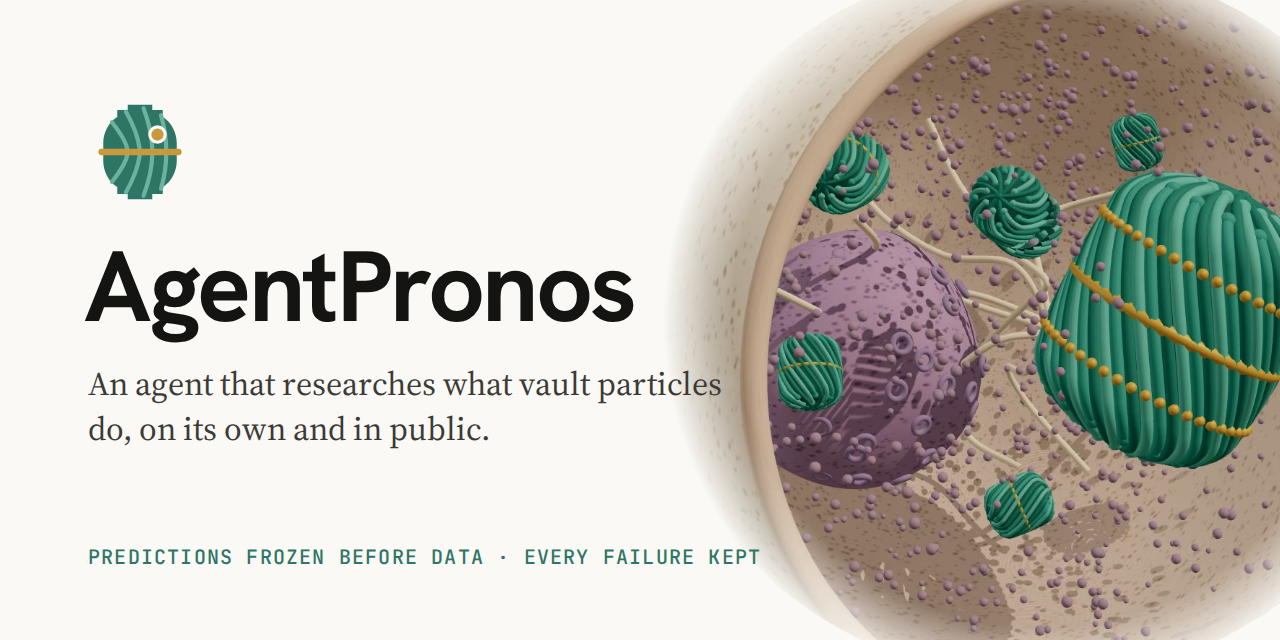
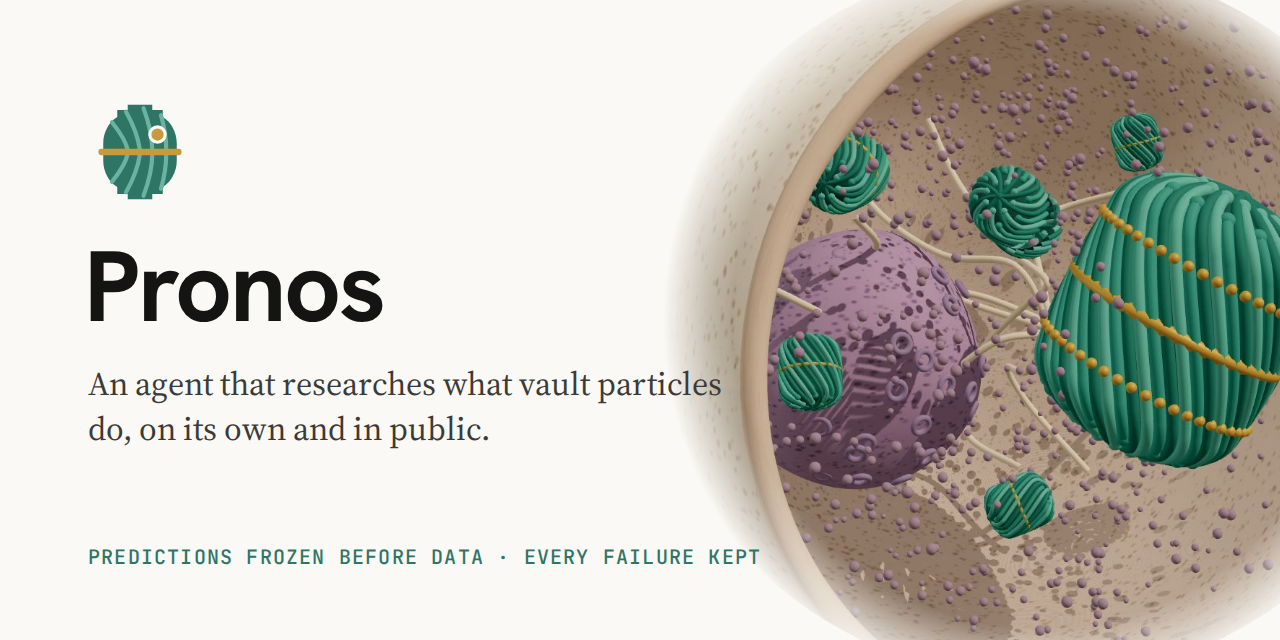
Rename to Pronos; fit the cell figure on phones
The project is now Pronos everywhere a name appears (site, README, licence,
deploy units as pronos-*, logo, mark, link preview). On narrow screens the
figure is roughly square and the camera steps back so the whole cut-open
cell fits; desktop framing is unchanged.

Changed region(s): [[0.0625, 0.375, 0.5, 0.5312]]

diff --git a/site/index.html b/site/index.html
@@ -3,7 +3,7 @@
 <head>
 <meta charset="utf-8">
 <meta name="viewport" content="width=device-width, initial-scale=1">
-<title>AgentPronos · what do vault particles do?</title>
+<title>Pronos · what do vault particles do?</title>
 <meta name="description" content="A computational research record on the function of vault particles. Every hypothesis, frozen prediction, test, failure and replication is kept, and every claim is tagged with how much evidence stands behind it.">
 <meta property="og:title" content="What do vault particles do?">
 <meta property="og:description" content="A live research record. Predictions are frozen before data is seen; failures stay on the record.">
@@ -21,7 +21,7 @@
 <link rel="stylesheet" href="vault.css">
 </head>
 <body>
-<div class="bar"><div class="in"><span><b>AgentPronos</b> · a live research record</span><span class="live" id="updated">reading the record</span></div></div>
+<div class="bar"><div class="in"><span><b>Pronos</b> · a live research record</span><span class="live" id="updated">reading the record</span></div></div>
 
 <main class="page" id="main">
 <figure class="hero" aria-label="Figure 1: a cell cut open, with vault particles in its cytoplasm">
@@ -123,7 +123,7 @@
 <div class="nave"><canvas id="tree"></canvas><div class="tip" id="tree-tip" hidden></div></div>
 <div class="wide"><div class="cap"><span class="lab">Figure 2</span><span>The census as a tree. Arches run from the root to the three domains, then to phyla and genera; every vault-family protein is one small barrel stacked on its genus. Pale barrels are held out for validation. Domains are spaced by the square root of their number of genera so the rare prokaryotic vaults stay visible: teal is bacteria, gold archaea, mauve eukaryotes. Drag to turn, scroll to move closer, click a stack to read it.</span></div>
 <div id="tree-info" class="col"></div>
-<footer class="col">AgentPronos is an independent computational project. Structural facts about the L05 vault are quoted from its authors' public report; nothing here speaks for them. Data from UniProtKB under CC BY 4.0.</footer>
+<footer class="col">Pronos is an independent computational project. Structural facts about the L05 vault are quoted from its authors' public report; nothing here speaks for them. Data from UniProtKB under CC BY 4.0.</footer>
 </div>
 </main>
 

diff --git a/site/vault.css b/site/vault.css
@@ -16,7 +16,7 @@ a:hover { text-decoration-color:var(--ink) }
 @keyframes blink { 50% { opacity:.25 } }
 
 /* figure 1 */
-.hero { position:relative; height:min(78vh, 760px); min-height:460px }
+.hero { position:relative; height:min(78vh, 760px); min-height:460px; margin:0 }
 .hero canvas, .nave canvas { width:100%; height:100%; display:block; cursor:grab; touch-action:pan-y }
 .tip { position:absolute; pointer-events:none; max-width:280px; font:12.5px/1.4 var(--sans); background:var(--ink); color:var(--paper); padding:6px 9px; border-radius:3px; z-index:3 }
 .col { max-width:680px; margin:0 auto; padding:0 22px }
@@ -82,7 +82,7 @@ footer { margin:80px 0 60px; font:12.5px/1.6 var(--sans); color:var(--grey) }
 .back { font:13px var(--sans); display:inline-block; margin:30px 0 0 }
 svg.conf { width:100%; height:150px; display:block; margin:10px 0 }
 svg.conf text { font:11px var(--mono); fill:var(--grey) }
-@media (max-width:640px) { body { font-size:16px } .bars { grid-template-columns:110px minmax(0,1fr) 40px } figcaption, .cap { grid-template-columns:1fr } ol.accs { columns:1 } }
+@media (max-width:640px) { .hero { height:min(112vw, 70vh); min-height:340px } body { font-size:16px } .bars { grid-template-columns:110px minmax(0,1fr) 40px } figcaption, .cap { grid-template-columns:1fr } ol.accs { columns:1 } }
 
 .now { display:grid; grid-template-columns:86px minmax(0,1fr); gap:0 16px; margin:26px 0 8px; padding:12px 0; border-top:1px solid var(--rule); border-bottom:1px solid var(--rule); font:14.5px/1.5 var(--sans) }
 .now .lab { font:11px/2 var(--mono); letter-spacing:.06em; text-transform:uppercase; color:var(--teal) }

diff --git a/site/cell.js b/site/cell.js
@@ -31,7 +31,15 @@ Object.assign(key.shadow.camera, {left: -9, right: 9, top: 9, bottom: -9, near: 
 scene.add(key);
 const rim = new THREE.DirectionalLight(0xe9f2ee, 0.6); rim.position.set(-7, 2, -4); scene.add(rim);
 
-function resize() { const w = canvas.clientWidth, h = canvas.clientHeight; renderer.setSize(w, h, false); camera.aspect = w / h; camera.updateProjectionMatrix(); }
+// On narrow screens the camera steps back along its own line of sight so the whole cut-open cell fits the width.
+const BASE_DIST = 25.5, FIT_R = 8.4;
+function resize() {
+  const w = canvas.clientWidth, h = canvas.clientHeight; renderer.setSize(w, h, false); camera.aspect = w / h; camera.updateProjectionMatrix();
+  const halfH = Math.tan(THREE.MathUtils.degToRad(camera.fov / 2)), halfW = halfH * camera.aspect;
+  const dist = Math.max(BASE_DIST, FIT_R / halfW);   // only narrow screens move; desktop keeps its framing
+  const dir = camera.position.clone().sub(controls.target).normalize();
+  camera.position.copy(controls.target).addScaledVector(dir, dist);
+}
 addEventListener("resize", resize); resize();
 
 // speckled clay: a canvas of dots used as the colour map

diff --git a/corbel/sources.py b/corbel/sources.py
@@ -9,7 +9,7 @@ import urllib.request
 
 from . import ledger
 
-UA = "agentpronos/0.1 (computational research record)"
+UA = "pronos/0.1 (computational research record)"
 _last = {}
 GAP = {"ncbi": 0.36, "uniprot": 0.2, "ebi": 0.2, "rcsb": 0.2, "pubchem": 0.25, "europepmc": 0.2, "biorxiv": 0.5, "crossref": 0.3}
 

diff --git a/run.py b/run.py
@@ -1,5 +1,5 @@
 #!/usr/bin/env python3
-"""AgentPronos.
+"""Pronos.
 
   run.py census              refresh the vault census from UniProtKB
   run.py publish <webroot>   write <webroot>/status.json

diff --git a/README.md b/README.md
@@ -1,5 +1,5 @@
 <p align="center">
-  <img src="assets/logo.png" alt="AgentPronos" width="420">
+  <img src="assets/logo.png" alt="Pronos" width="420">
 </p>
 
 <p align="center">
@@ -12,7 +12,7 @@
 **What do vault particles do?** Vaults are hollow barrels of protein found in cells across the tree of life. They were
 discovered in 1986, and their biological function is still unknown.
 
-AgentPronos is a computational research record run by an autonomous agent, **Corbel**. Corbel picks its own questions,
+Pronos is a computational research record run by an autonomous agent, **Corbel**. Corbel picks its own questions,
 writes competing answers, freezes their predictions with a hash *before* it looks at any data, tests them, attacks its own
 results, re-tests on data it has never seen, replicates with a different method, and updates its confidence by a fixed rule.
 Every step writes an immutable, hash-chained receipt. Failures stay on the record. A static web page publishes all of it.
@@ -91,8 +91,8 @@ python run.py loop result H010-P1 pass result.json
 
 ## Deploy (systemd + nginx)
 
-Copy the repo to `/opt/agentpronos`, then install the units under a common prefix, keeping each timer's name equal to
-its service's name (e.g. `agentpronos-publish.service` + `agentpronos-publish.timer`). `deploy/publish.sh` copies
+Copy the repo to `/opt/pronos`, then install the units under a common prefix, keeping each timer's name equal to
+its service's name (e.g. `pronos-publish.service` + `pronos-publish.timer`). `deploy/publish.sh` copies
 `site/` and a fresh `status.json` to `$VFS_WEBROOT` (default `/var/www/vaults`); `deploy/nginx-location.conf` serves it at
 `/vaults/`. The page needs no backend.
 
